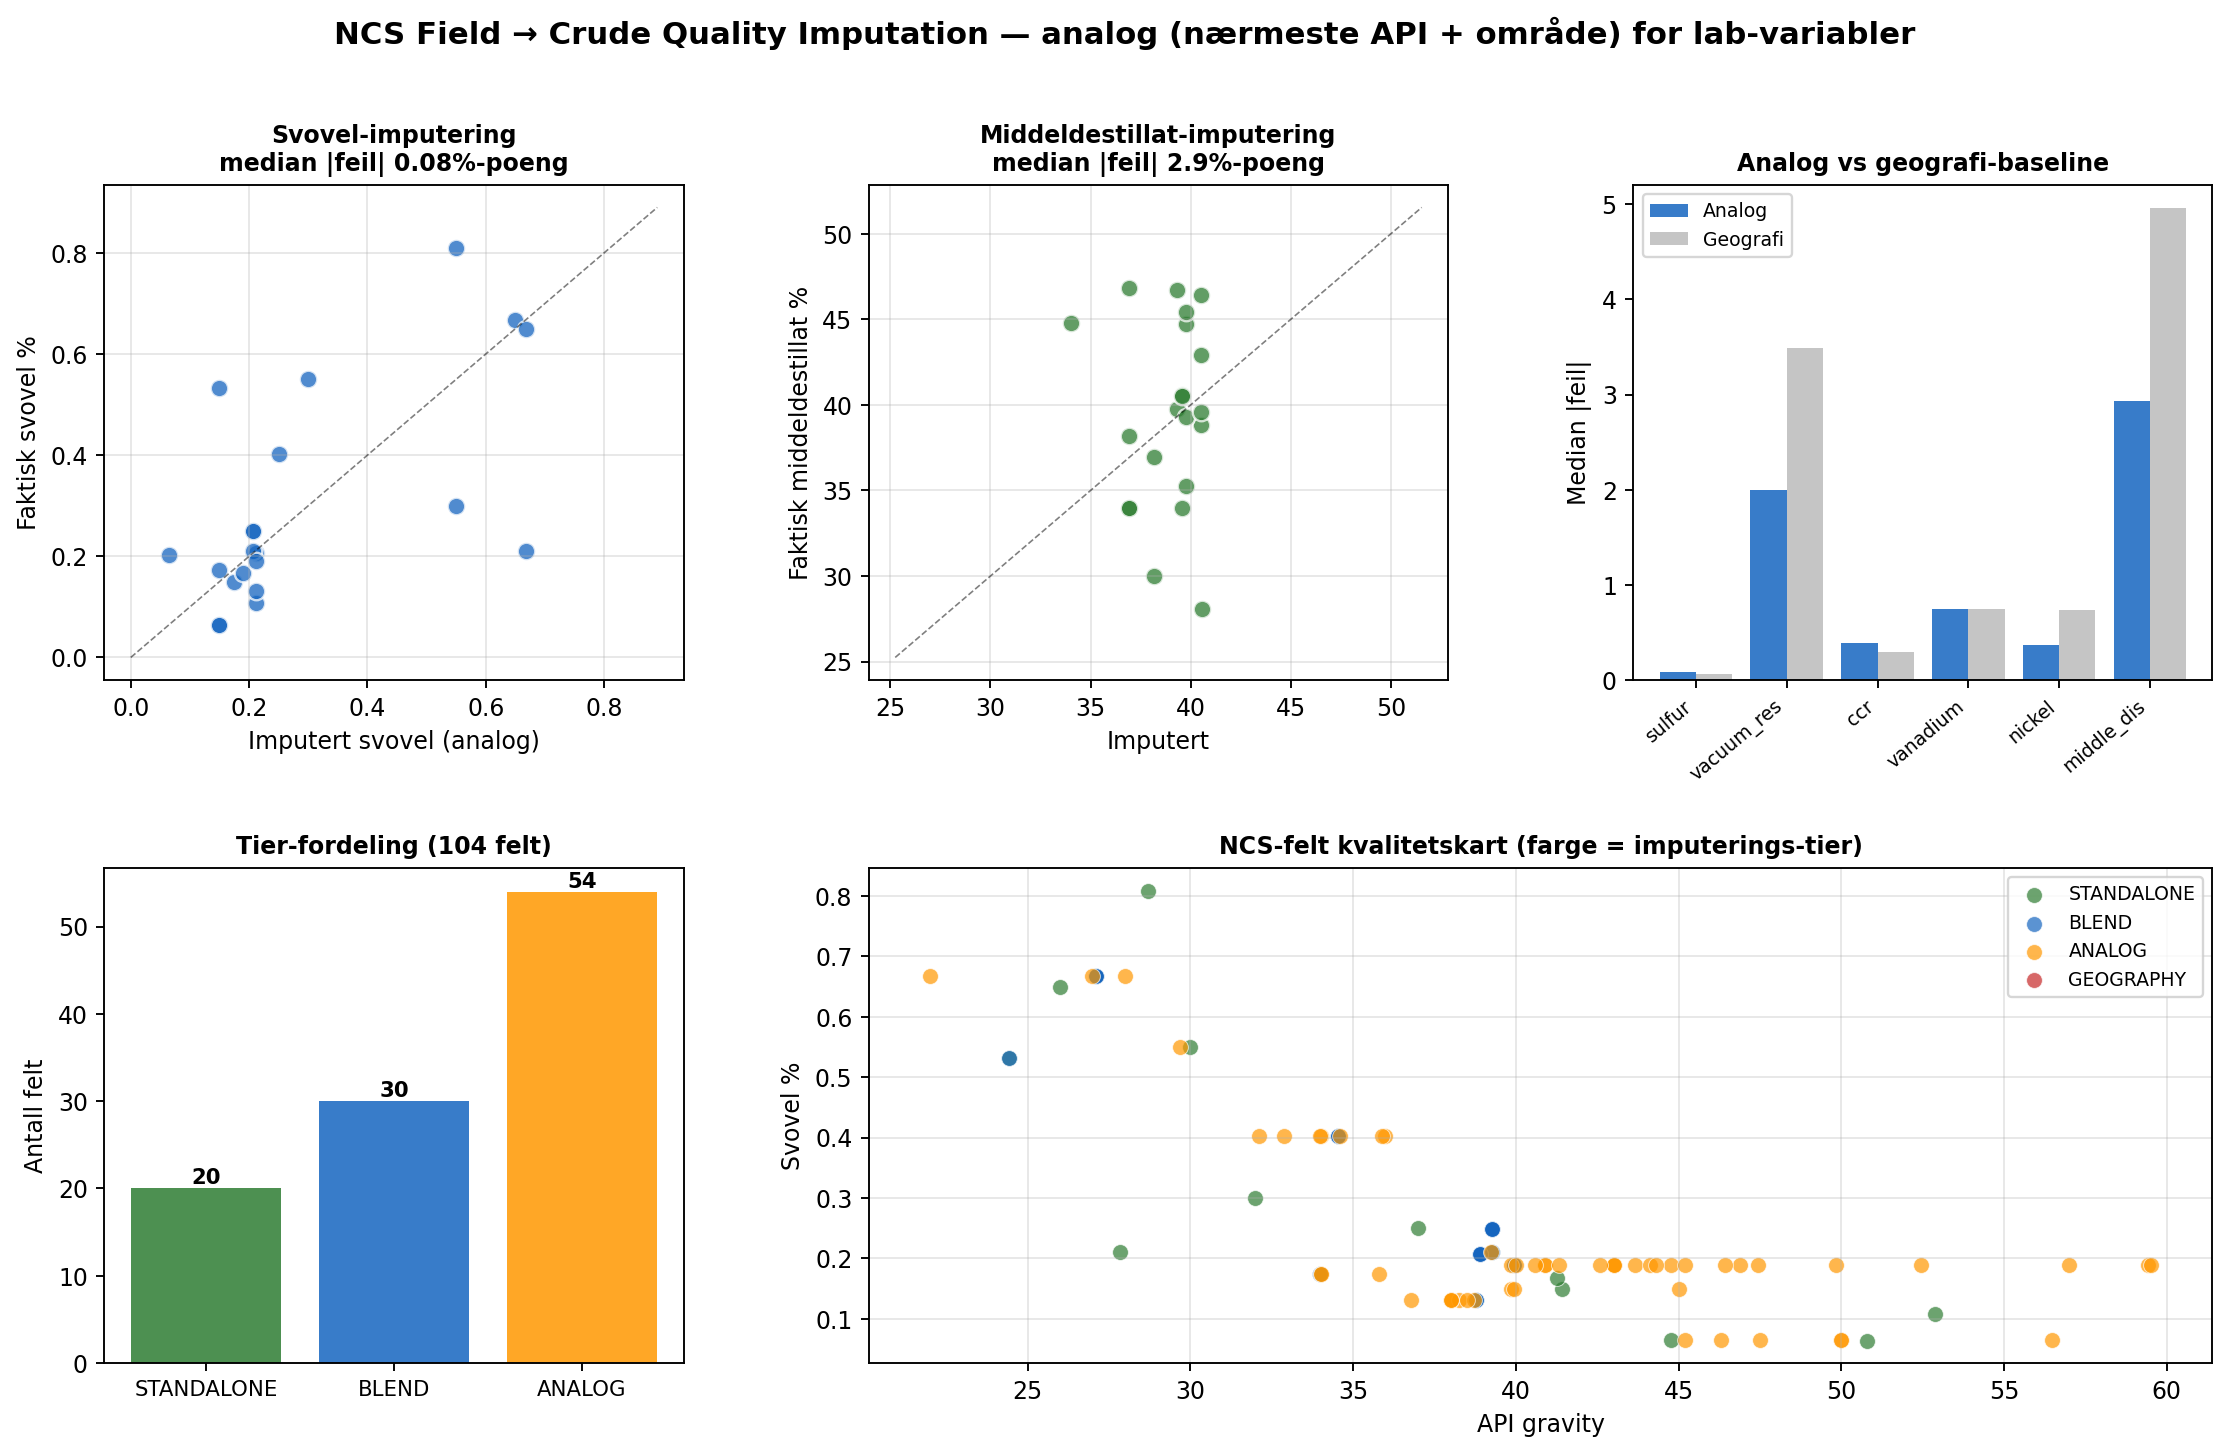
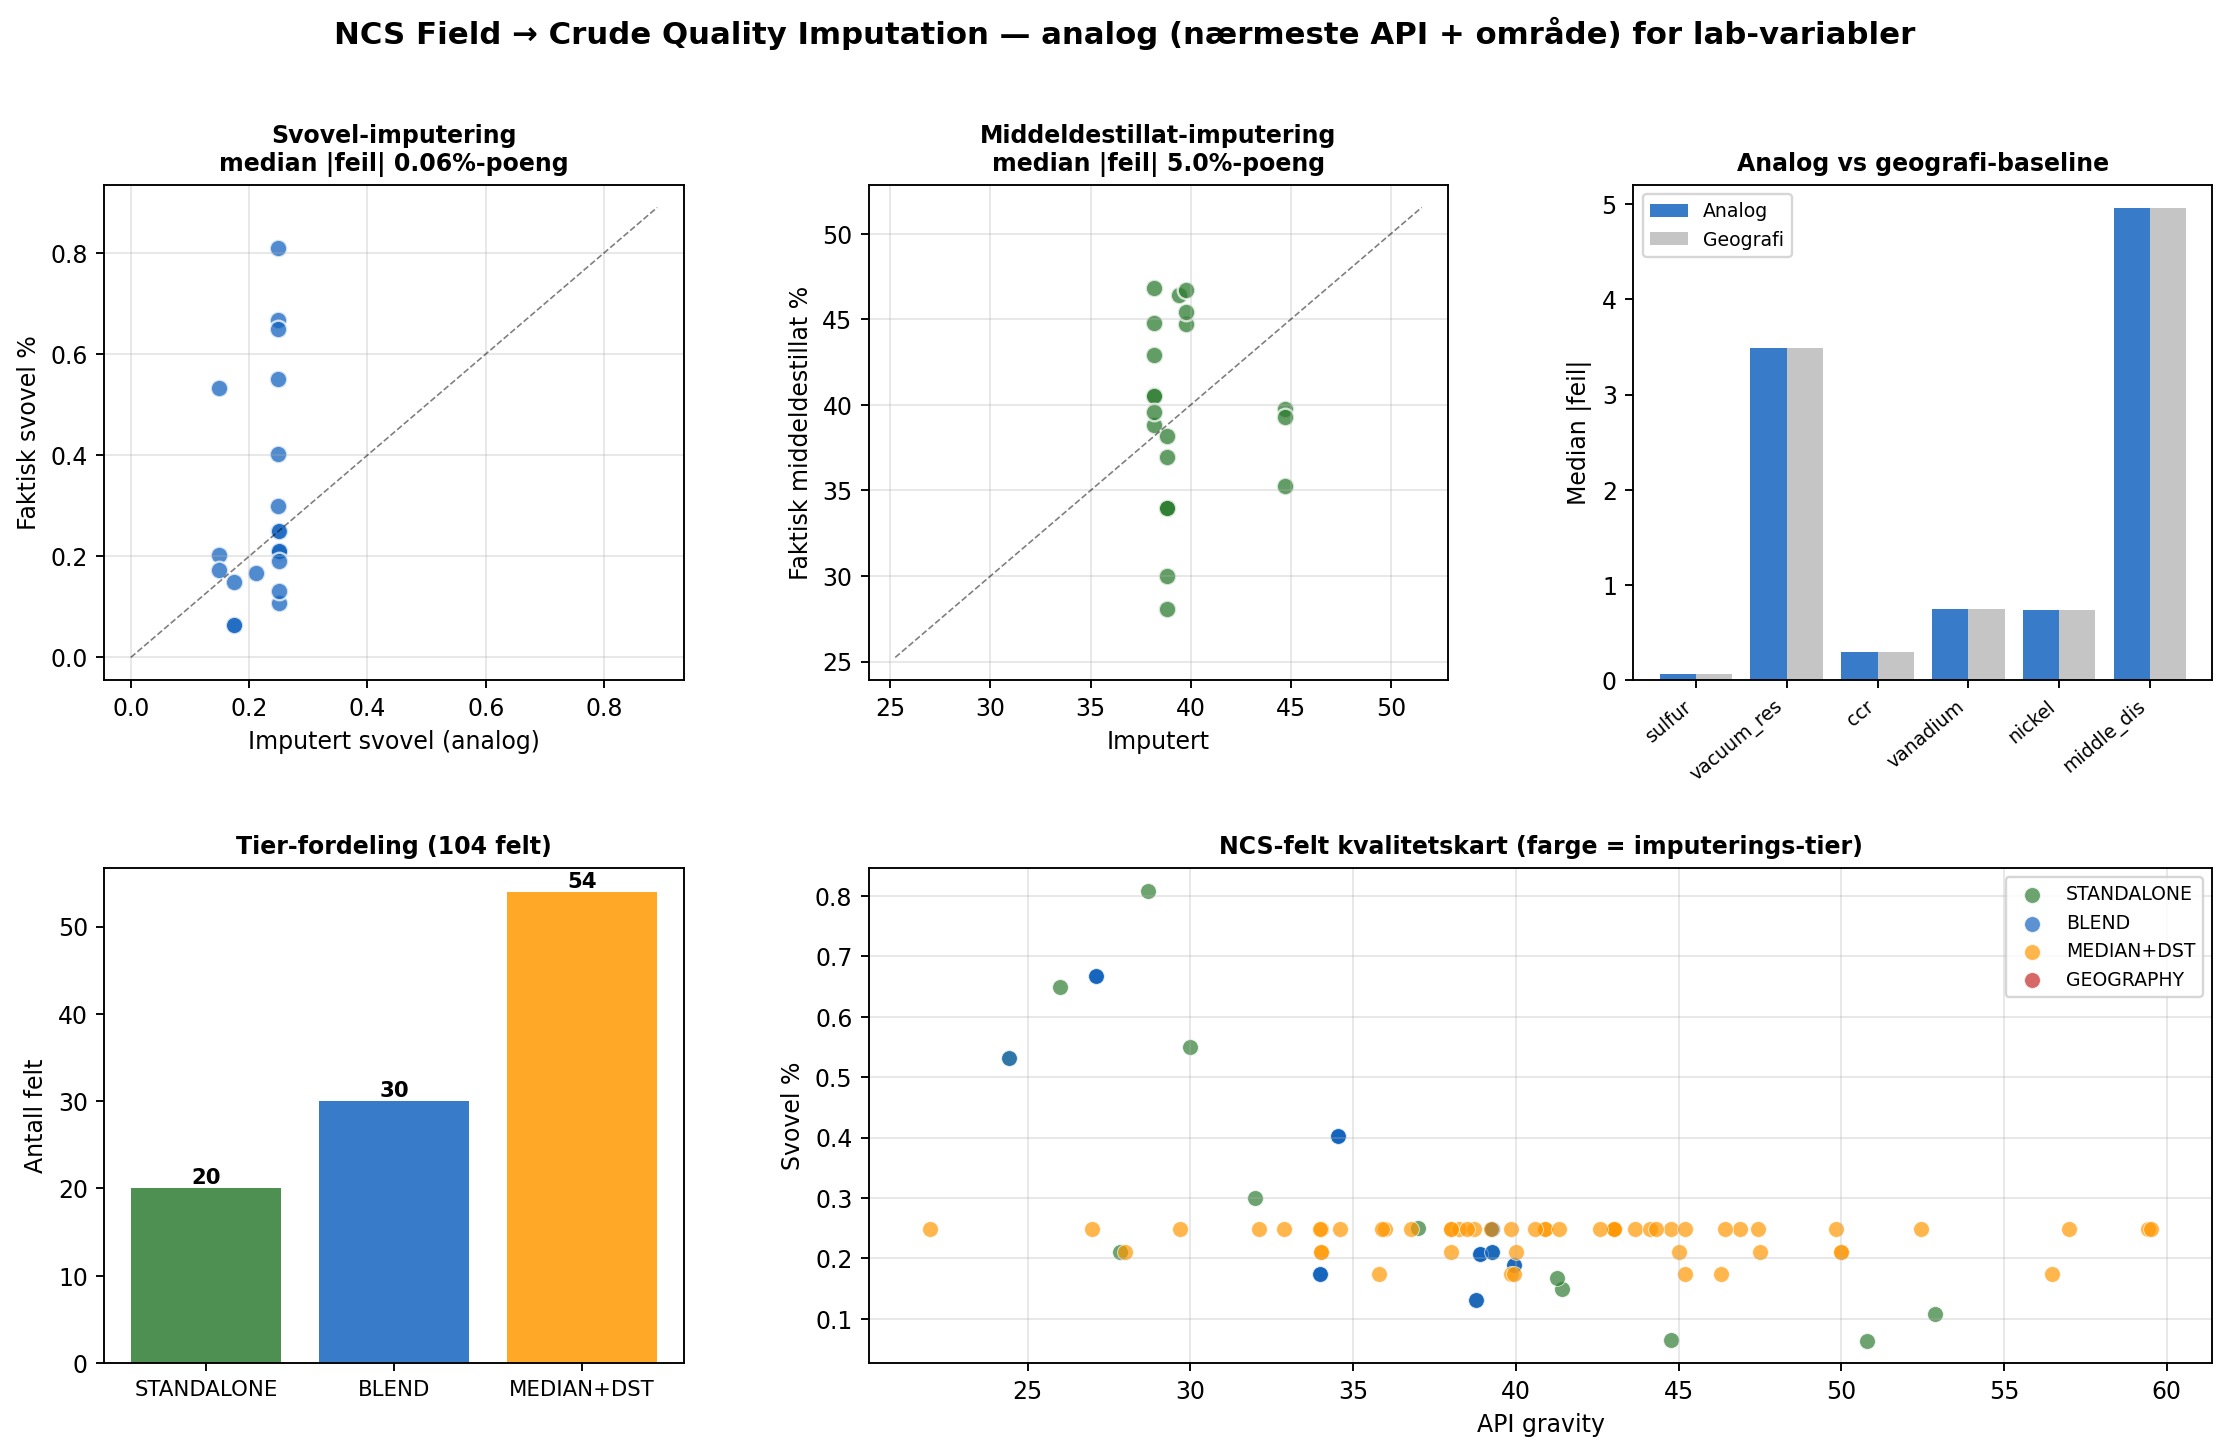
Adopt median-base + Sodir-DST-override for Tier 3 imputation (Script 63)
Replaces the k=3 nearest-API analog with a simpler, more transparent method
per user proposal: robust area-median base for lab variables, with the
field-specific Sodir DST measurement substituted in for API.

Rationale (validated, LOO on 21 unique NCS assay grades):
- median-base ties k=3 analog on price-weighted error (0.338 vs 0.327 — noise
  on 21 points) but WINS on sulfur (0.060 vs 0.080 %-pts), the most
  price-critical lab variable, and is simpler to explain.
- API doesn't predict sulfur/metals within the NCS (set by source rock, not
  gravity), so single-nearest-neighbour matching just adds variance.
- Area-stratification genuinely helps: same-area median beats NCS-wide median
  on all 6 lab vars (+25% sulfur, +37% CCR, +24% resid) → main_area retained.
- The genuine field-specific win is API via Sodir DST; lab vars carry real
  residual uncertainty (sulfur ±0.06%-pts; metals ~75% relative — hard).

Tier distribution (104 NCS oil fields): 20 standalone, 30 blend, 54 median+DST.
All 13 Aker BP fields are tier 1/2 (real assays) — price model unaffected.

diff --git a/scripts/63_field_quality_imputation.py b/scripts/63_field_quality_imputation.py
@@ -10,8 +10,8 @@ HIERARKI (høyest → lavest):
   Tier 1  STANDALONE_ASSAY  — feltet har egen publisert assay
   Tier 2  BLEND_ASSAY       — feltet selges inn i navngitt blend m/ assay
                               (KORREKT for pris — det er salgsvaren)
-  Tier 3  ANALOG            — ingen assay; lab-variabler fra nærmeste-API-felt
-                              i samme hovedområde, API fra Sodir DST
+  Tier 3  MEDIAN+DST        — ingen assay; lab-variabler fra område-median
+                              (robust), API erstattet med feltspesifikk Sodir-DST
   Tier 4  GEOGRAPHY         — siste utvei: hovedområde-median
 
 VIKTIG NYANSE (pris vs decline):
@@ -131,25 +131,29 @@ def assign_quality(field_u, api_for_match, main_area, analog_pool, exclude=None,
             q = assay_q.loc[grade]
             return q.to_dict(), "2_BLEND", f"blend:{grade}"
 
-    # Tier 3: analog — MEDIAN av k=3 nærmeste API i samme område.
-    # Validering viste at k=3-median slår både enkelt-nærmeste-nabo (for støyete)
-    # og ren geografi-median (mister API-relevans) på 4 av 6 lab-variabler.
-    K = 3
+    # Tier 3: MEDIAN-BASE + SODIR-OVERRIDE.
+    # Lab-variablene tas fra område-median (robust — API forutsier ikke svovel/
+    # metaller godt, så nærmeste-nabo-matching gir bare støy). API erstattes med
+    # den feltspesifikke Sodir-DST-målingen der den finnes.
+    #
+    # Validering (LOO, 21 NCS-grades, pris-vektet): praktisk talt likt med k=3-
+    # analog (0.338 vs 0.327), men median-base vinner på svovel (mest pris-kritisk)
+    # og er enklere/mer transparent. Sodir-override gir feltspesifikk API.
     pool = analog_pool
     if exclude is not None:
         pool = pool[pool.field_u != exclude]
-    if api_for_match is not None and len(pool) > 0:
+    if len(pool) > 0:
         same_area = pool[pool.main_area == main_area]
-        cand = same_area if len(same_area) >= 1 else pool  # fall til hele NCS hvis tomt område
-        cand = cand.copy()
-        cand["api_dist"] = (cand.api_match - api_for_match).abs()
-        knn = cand.sort_values("api_dist").head(K)
-        q = {"api_gravity": api_for_match}  # API fra DST (feltspesifikk)
+        base = same_area if len(same_area) >= 1 else pool  # fall til hele NCS hvis tomt område
+        q = {}
+        # API: feltspesifikk Sodir-DST hvis tilgjengelig, ellers område-median
+        q["api_gravity"] = api_for_match if api_for_match is not None else base.api_match.median()
+        # Lab-variabler: område-median (robust base)
         for v in LAB_VARS:
-            q[v] = knn[v].median()
+            q[v] = base[v].median()
         scope = "område" if len(same_area) >= 1 else "NCS"
-        nearest = knn.iloc[0]
-        return q, "3_ANALOG", f"analog-k{len(knn)}:{nearest.field_u}+(ΔAPI={nearest.api_dist:.1f},{scope})"
+        api_src = "Sodir-DST" if api_for_match is not None else "median"
+        return q, "3_MEDIAN+DST", f"median:{main_area}({len(base)} grades,{scope})+API:{api_src}"
 
     # Tier 4: geografi-median
     geo = analog_pool[analog_pool.main_area == main_area]
@@ -227,28 +231,23 @@ for v in LAB_VARS:
     val_summary[v] = {"mae": abs_err.median(), "mape": rel_err.median(), "n": len(sub)}
     log(f"  {v:22s} {abs_err.median():13.3f} {rel_err.median():15.0f}% {len(sub):4d}")
 
-# Sammenlign mot geografi-median som baseline
-log(f"\n  Sammenligning: analog vs ren geografi-median (baseline)")
-log(f"  {'Variabel':22s} {'analog MAE':>12s} {'geo MAE':>10s} {'forbedring':>12s}")
+# Sammenlign område-median (valgt metode) vs NCS-bred median (gir område-strat verdi?)
+log(f"\n  Sammenligning: område-median (valgt) vs NCS-bred median")
+log(f"  {'Variabel':22s} {'område MAE':>12s} {'NCS-bred':>10s} {'forbedring':>12s}")
 log("  " + "-" * 56)
 for v in LAB_VARS:
     sub = val.dropna(subset=[f"{v}_true"])
     if len(sub) < 3:
         continue
-    analog_mae = (sub[f"{v}_imp"] - sub[f"{v}_true"]).abs().median()
-    # geografi-baseline: median av alle ANDRE grades i samme område
-    gp_area = grade_pool.set_index("field_u")["main_area"].to_dict()
-    geo_errs = []
+    area_mae = (sub[f"{v}_imp"] - sub[f"{v}_true"]).abs().median()
+    # NCS-bred baseline: median av ALLE andre grades (ignorer område)
+    global_errs = []
     for _, rr in sub.iterrows():
-        g = rr.field
-        area = gp_area.get(g, "Unknown")
-        others = grade_pool[(grade_pool.field_u != g) & (grade_pool.main_area == area)]
-        if len(others) == 0:
-            others = grade_pool[grade_pool.field_u != g]
-        geo_errs.append(abs(others[v].median() - rr[f"{v}_true"]))
-    geo_mae = np.median(geo_errs)
-    imp = (1 - analog_mae / geo_mae) * 100 if geo_mae > 0 else 0
-    log(f"  {v:22s} {analog_mae:11.3f} {geo_mae:9.3f} {imp:+11.0f}%")
+        others = grade_pool[grade_pool.field_u != rr.field]
+        global_errs.append(abs(others[v].median() - rr[f"{v}_true"]))
+    global_mae = np.median(global_errs)
+    imp = (1 - area_mae / global_mae) * 100 if global_mae > 0 else 0
+    log(f"  {v:22s} {area_mae:11.3f} {global_mae:9.3f} {imp:+11.0f}%")
 
 # ────────────────────────────────────────────────────────────────────────────
 # 5. ANVEND PÅ ALLE NCS-FELT
@@ -339,7 +338,7 @@ ax.legend(fontsize=8)
 # Panel 4: tier distribution
 ax = fig.add_subplot(gs[1, 0])
 tier_counts = out.tier.value_counts().sort_index()
-tier_colors = {"1_STANDALONE":"#2E7D32","2_BLEND":"#1565C0","3_ANALOG":"#FF9800","4_GEOGRAPHY":"#C62828"}
+tier_colors = {"1_STANDALONE":"#2E7D32","2_BLEND":"#1565C0","3_MEDIAN+DST":"#FF9800","4_GEOGRAPHY":"#C62828"}
 ax.bar(range(len(tier_counts)), tier_counts.values,
        color=[tier_colors.get(t,"#999") for t in tier_counts.index], alpha=0.85)
 ax.set_xticks(range(len(tier_counts)))